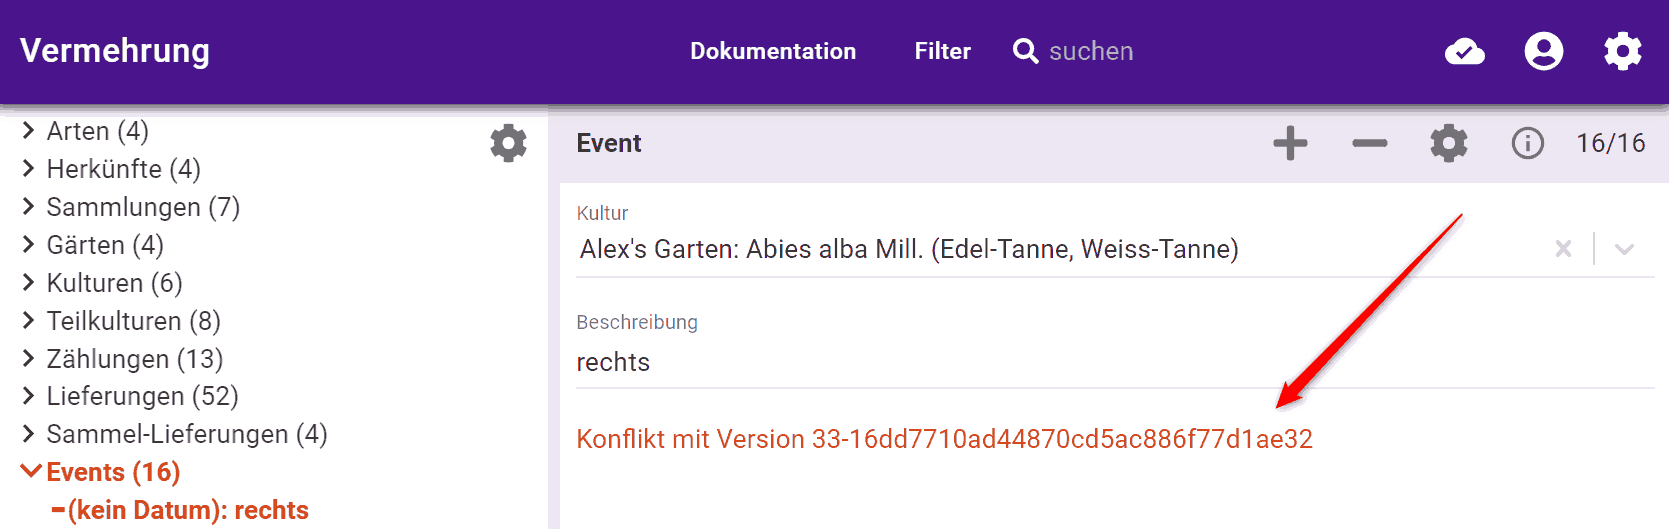
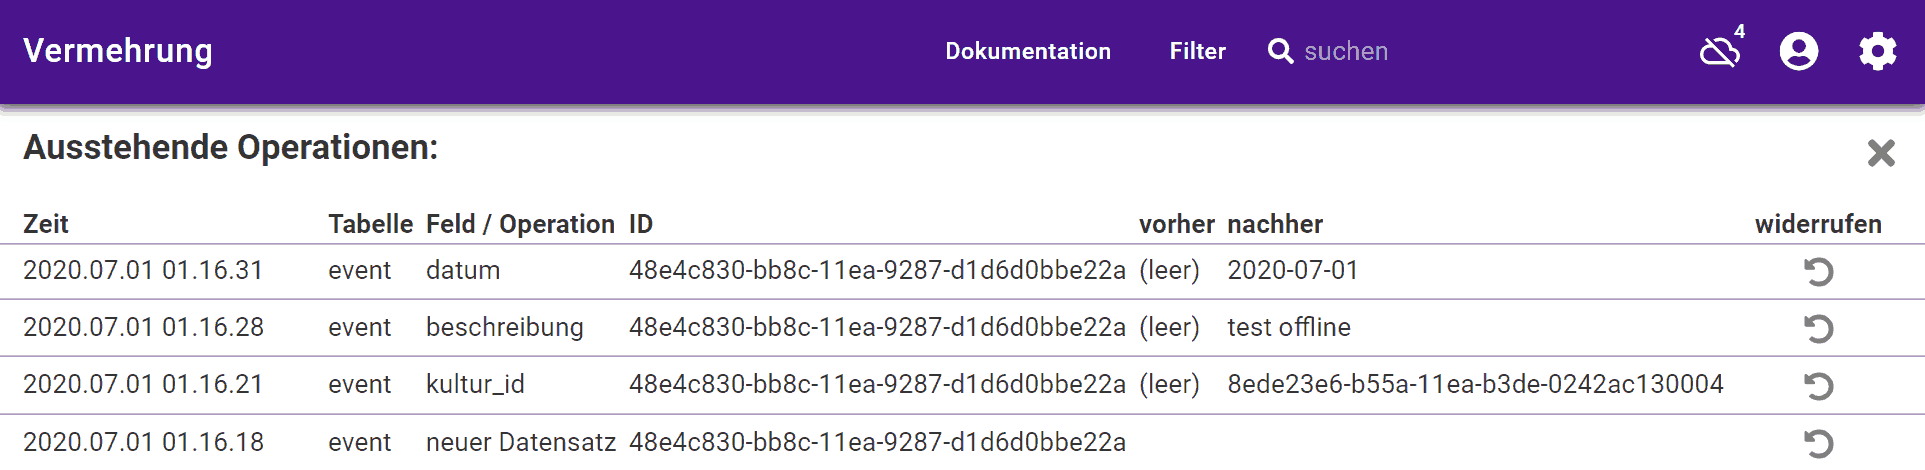
document

diff --git a/src/docs/offline/index.md b/src/docs/offline/index.md
@@ -33,6 +33,10 @@ Sobald vermehrung wieder online ist, werden die Päckchen dem Server geschickt..
 
 ...und dort verarbeitet. Sobald die Zahl verschwunden ist, ist ihr Gerät mit dem Server synchronisiert.<br/><br/>
 
+Sie können sich durch Klick auf das Online-Symbol auch die Schlange auflisten lassen:
+![Operationen-Liste](005.png)<br/>
+...und sogar Operationen widerrufen.<br/><br/>
+
 ### Konflikte
 
 Was macht der Server mit Ihren Päckchen? Er speichert sie natürlich, wie jeder gute Server. Zusätzlich sucht er **Konflikte** und wählt **Sieger**.<br/><br/>
@@ -46,10 +50,10 @@ Konflikte können auch entstehen, wenn dieselbe Person vermehrung.ch auf mehrere
 #### Sieger wählen
 
 Der Server von vermehrung.ch wählt automatisch Sieger. Leider ist er nicht allwissend. Darum notiert er beim Sieger auch, welche widersprüchlichen Versionen es gibt. Das wird im Formular angezeigt:<br/>
-![Konflikt gefunden](005.png)<br/>
+![Konflikt gefunden](006.png)<br/>
 
 Klickt man auf den Konflikt, öffnet sich das Formular mit der widersprüchlichen Version:<br/>
-![widersprüchliche Version](006.png)<br/>
+![widersprüchliche Version](007.png)<br/>
 
 Hier sehen Sie die Unterschiede. Sie haben drei Optionen:
 